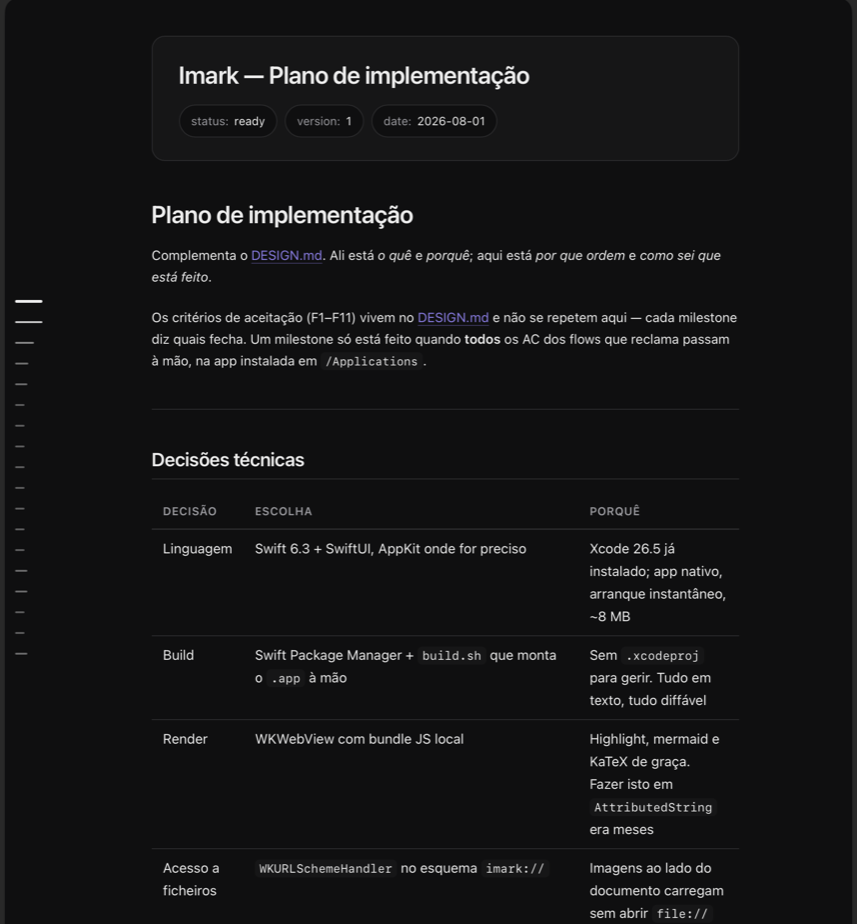
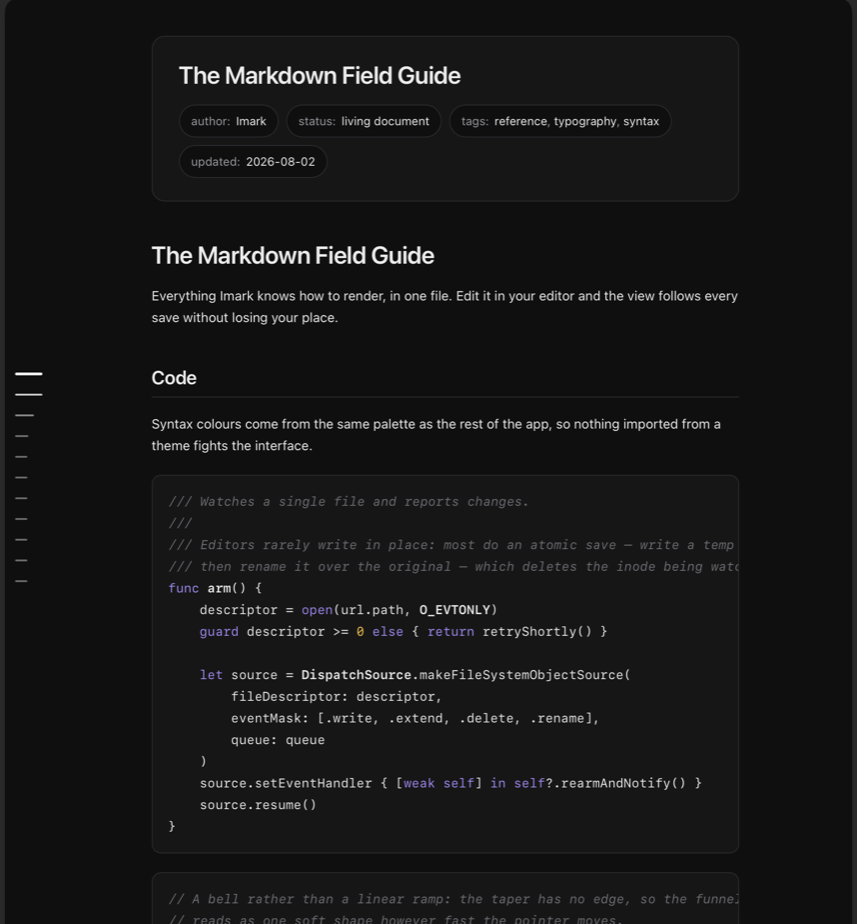
Shoot the README on a document worth showing
The screenshots were of a synthetic changelog and a Portuguese planning doc —
neither showed what the renderer can do. Adds testdata/showcase.md, a field
guide that exercises every supported construct, and retakes both shots on it.

Code and diagrams come before typography in that file on purpose: they are what
lands above the fold in a window, and they are what a screenshot has to sell.

diff --git a/testdata/showcase.md b/testdata/showcase.md
@@ -1,0 +1,161 @@
+---
+title: The Markdown Field Guide
+author: Imark
+status: living document
+tags: [reference, typography, syntax]
+updated: 2026-08-02
+---
+
+# The Markdown Field Guide
+
+Everything Imark knows how to render, in one file. Edit it in your editor and
+the view follows every save without losing your place.
+
+## Code
+
+Syntax colours come from the same palette as the rest of the app, so nothing
+imported from a theme fights the interface.
+
+```swift
+/// Watches a single file and reports changes.
+///
+/// Editors rarely write in place: most do an atomic save — write a temp file,
+/// then rename it over the original — which deletes the inode being watched.
+func arm() {
+    descriptor = open(url.path, O_EVTONLY)
+    guard descriptor >= 0 else { return retryShortly() }
+
+    let source = DispatchSource.makeFileSystemObjectSource(
+        fileDescriptor: descriptor,
+        eventMask: [.write, .extend, .delete, .rename],
+        queue: queue
+    )
+    source.setEventHandler { [weak self] in self?.rearmAndNotify() }
+    source.resume()
+}
+```
+
+```typescript
+// A bell rather than a linear ramp: the taper has no edge, so the funnel
+// reads as one soft shape however fast the pointer moves.
+const falloffAt = (distance: number, sigma = 1.15): number =>
+  Math.exp(-(distance * distance) / (2 * sigma * sigma))
+
+export function widthFor(level: number, distance: number): number {
+  const resting = 10 + Math.max(0, 3 - level) * 3
+  return resting + falloffAt(distance) * 32
+}
+```
+
+```bash
+open -a Imark README.md
+swift Support/make-icon.swift
+```
+
+## Diagrams
+
+Mermaid is rendered locally and takes its colours from the document theme, so
+diagrams do not glow white in the middle of a dark page.
+
+```mermaid
+graph LR
+  A[Finder] -->|space bar| B[Quick Look]
+  A -->|double click| C[Imark]
+  B --> D[Shared renderer]
+  C --> D
+  D --> E[WKWebView]
+```
+
+```mermaid
+sequenceDiagram
+  participant E as Editor
+  participant W as FileWatcher
+  participant R as Renderer
+  E->>W: atomic save
+  W->>W: re-arm on the new inode
+  W->>R: changed
+  R->>R: render, keeping scroll
+```
+
+## Typography
+
+Prose is set at **16px on a 1.7 line height**, in a column capped at *72
+characters*, because a line you have to track back across is a line you read
+twice. Inline `code` sits on a tinted chip, ~~struck text~~ stays legible, and
+links like [daringfireball.net](https://daringfireball.net) open in your
+browser rather than trapping you inside a reader.
+
+Wiki-links resolve against the folder: [[changelog]] opens the file next door,
+while [[a-note-that-does-not-exist]] stays red and inert rather than pretending.
+
+> Typography is the craft of endowing human language with a durable visual
+> form. A reader should never notice it working.
+
+## Tables
+
+| Feature | Where it lives | Notes |
+|---|---|---|
+| Live reload | `FileWatcher.swift` | Debounced at 120ms |
+| Outline | `SidebarViewController.swift` | Folds past 20 entries |
+| Wiki-links | `LinkRouter.swift` | Exact neighbour beats a fuzzy match |
+| Quick Look | `ImarkQuickLook` | Shares the renderer with the app |
+| Rail | `renderer/src/main.js` | Gaussian taper, sigma 1.15 |
+
+## Lists
+
+Ordinary lists nest, and task lists get real checkboxes:
+
+- Reading column capped at 72 characters
+- Headings that carry their own anchors
+  - Nested items keep the same rhythm
+  - And the same marker colour
+- Footnotes collected at the end[^1]
+
+- [x] Render Markdown offline
+- [x] Reload without losing scroll position
+- [x] Preview in the Finder with the space bar
+- [ ] Write the thing you actually opened the editor for
+
+## Mathematics
+
+KaTeX is bundled with its fonts inlined, so formulas render with no network and
+no flash of unstyled type. Inline, $e^{i\pi} + 1 = 0$; and set on its own line:
+
+$$
+\int_{0}^{\infty} e^{-x^{2}}\,dx = \frac{\sqrt{\pi}}{2}
+$$
+
+## Images
+
+Images beside the document load through a private URL scheme, so a page never
+gets handed `file://` access to your disk:
+
+<p align="center">
+  <img src="../.github/assets/app-icon.png" width="96" alt="The Imark icon">
+</p>
+
+Remote images deliberately do not load. A reader that quietly phones out is not
+offline, whatever the marketing says.
+
+## Front matter
+
+The block at the top of this file became the card above the title. Keys become
+chips, arrays become comma-separated values, and nothing is dumped as raw YAML
+in the middle of your prose.
+
+## Definition lists
+
+Atomic save
+: Write a temporary file, then rename it over the original. The inode changes,
+  so a naive file watcher goes deaf.
+
+Optical centring
+: Placing a shape where it *looks* centred rather than where it measures
+  centred. The Imark icon sits about 1% left of true centre.
+
+---
+
+That is the whole vocabulary. If something renders here, it renders in your
+documents.
+
+[^1]: Footnotes are numbered automatically and linked in both directions.

diff --git a/README.md b/README.md
@@ -24,7 +24,9 @@
 
 | Document window | Quick Look preview |
 |:---:|:---:|
-| ![Document window with a folded outline](.github/assets/imark-window.png) | ![Quick Look preview with the outline rail](.github/assets/imark-quicklook.png) |
+| ![A document window with the outline sidebar and syntax-highlighted code](.github/assets/imark-window.png) | ![The Finder preview panel, with the outline rail down the left edge](.github/assets/imark-quicklook.png) |
+
+Both are rendering [`testdata/showcase.md`](testdata/showcase.md), which exercises everything the renderer supports and is worth opening first.
 
 ## Features
 
